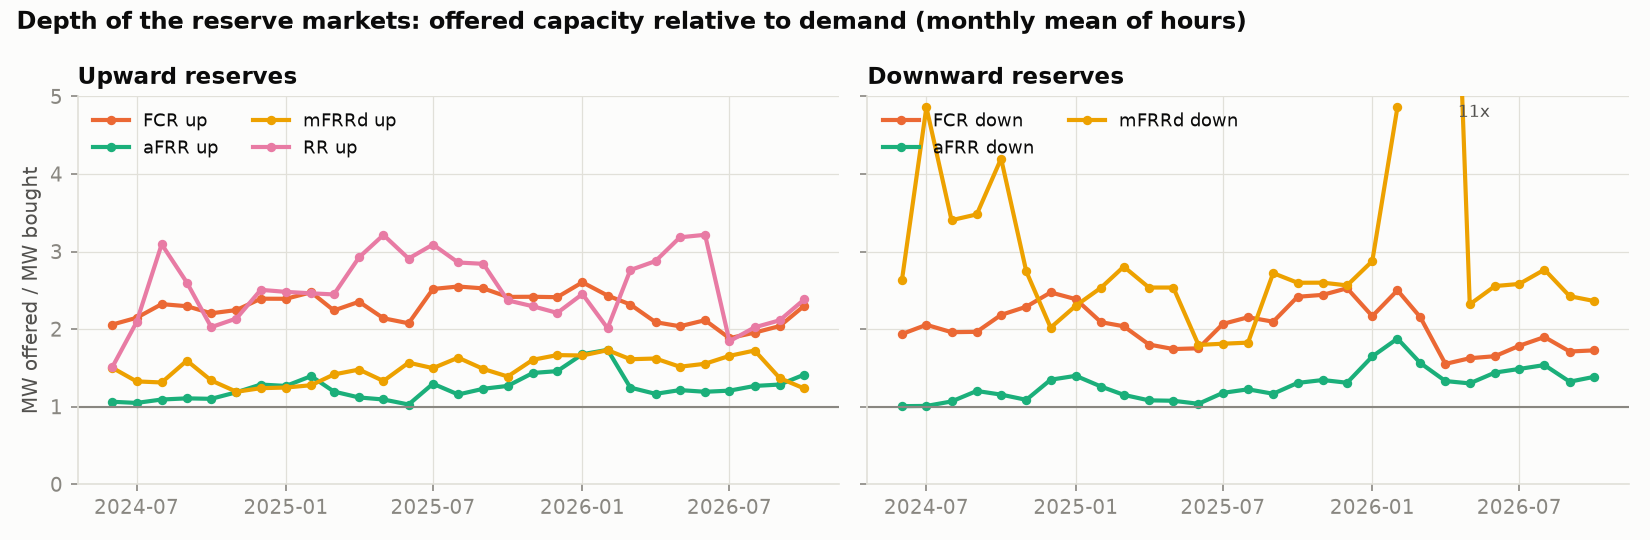
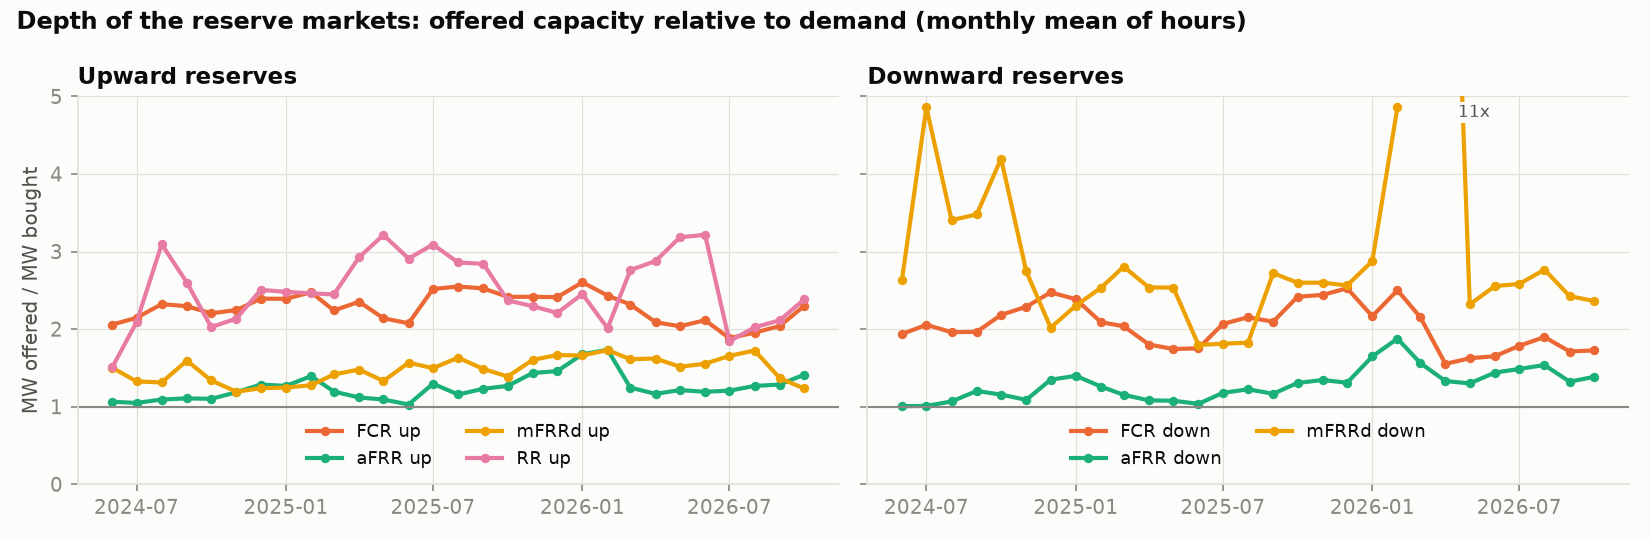
Charts: market-depth legend below the series, labels clear of lines
market_depth: the legends move to the empty band under the ratio 1 line (the
mFRRd line ran through them) and the off-scale value label sits on a background.
saturation: the arbitrage-only line gets a legend entry instead of a text label
that sat on the line and a bar. Both charts redrawn with the same functions from
the committed result tables. Layout only; results unchanged.

diff --git a/src/bess_stack/figures.py b/src/bess_stack/figures.py
@@ -105,13 +105,15 @@ def market_depth(r: Analysis, path: Path):
         ax.axhline(1.0, color=MUTED, linewidth=1)
         _month_axis(ax, (1, 7))
         ax.set_title(title, loc="left")
-        ax.legend(loc="upper left", ncols=2)
+        ax.legend(loc="lower center", ncols=2)  # every series is at or above 1, the band below is empty
         ax.set_ylim(0, 5)
         over = d[[("cover", k) for k in group]].max(axis=1)
         for xi, v in zip(x, over):
             if v > 5:
+                # on a background, so the line running out of the axes does not cross the value
                 ax.annotate(f"{v:.0f}x", (xi, 4.9), xytext=(6, 0), textcoords="offset points", ha="left", va="top",
-                            fontsize=8, color=INK2)
+                            fontsize=8, color=INK2, bbox=dict(facecolor=SURFACE, edgecolor="none", pad=1),
+                            zorder=5)
     axes[0].set_ylabel("MW offered / MW bought")
     fig.suptitle("Depth of the reserve markets: offered capacity relative to demand (monthly mean of hours)", x=0.01,
                  ha="left", fontweight="bold")
@@ -224,8 +226,7 @@ def saturation(r: Analysis, path: Path):
         labels = [f"{int(v):,}" for v in f.index]
         segs = [_segments(f.loc[v]) for v in f.index]
         _stacked_bars(ax, labels, segs, width=0.65)
-        ax.axhline(f["arbitrage_only"].iloc[0], color=INK, linewidth=1.5)
-        ax.text(-0.45, f["arbitrage_only"].iloc[0], "arbitrage only", va="bottom", ha="left", fontsize=8, color=INK)
+        ax.axhline(f["arbitrage_only"].iloc[0], color=INK, linewidth=1.5, label="Arbitrage only")
         ax.set_xlabel("fleet of identical 2 h batteries, MW")
         ax.set_ylabel("PLN per MW per year")
         ax.set_title("Stacking revenue per MW in a fleet", loc="left")
